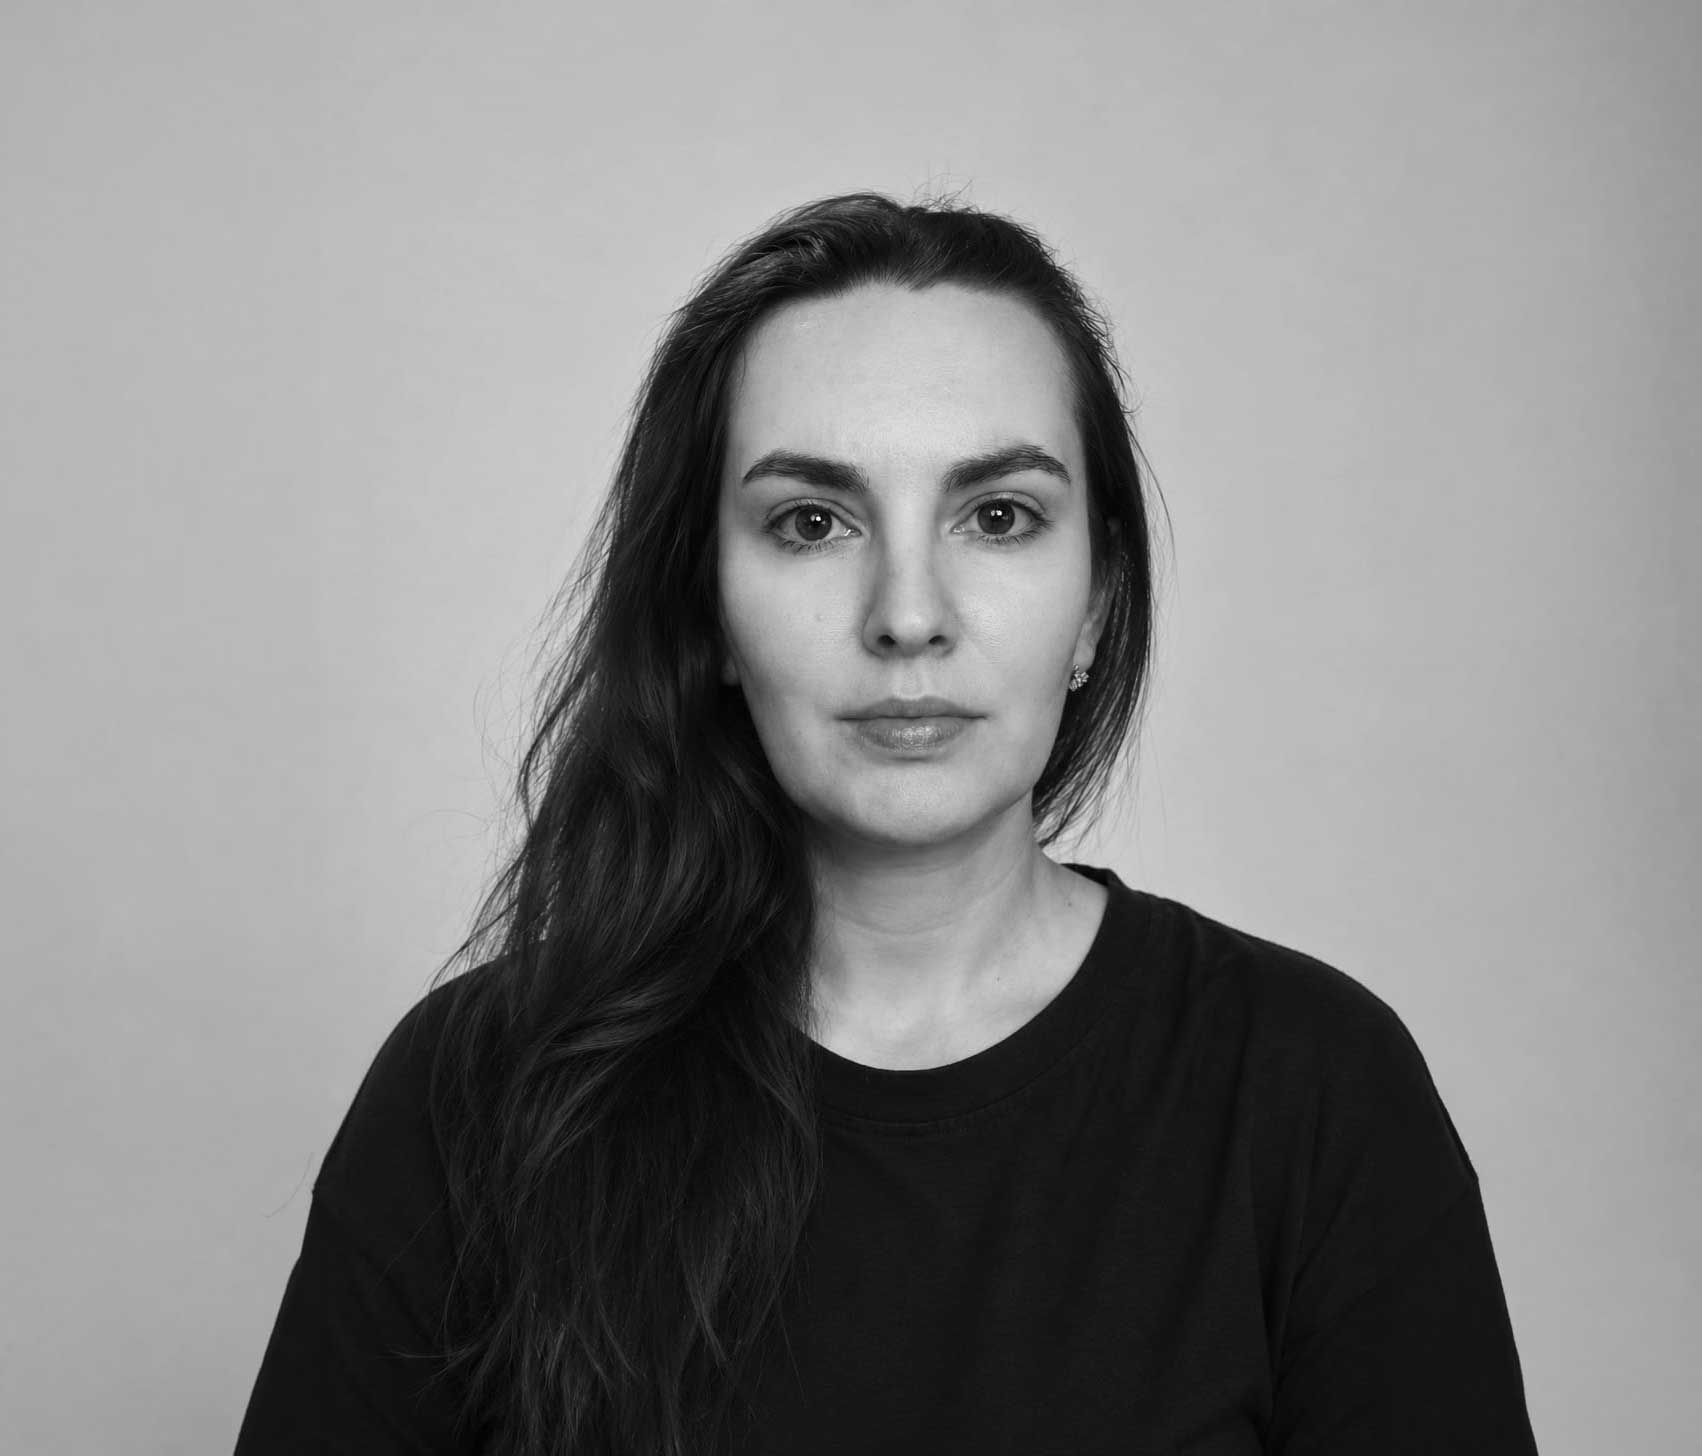
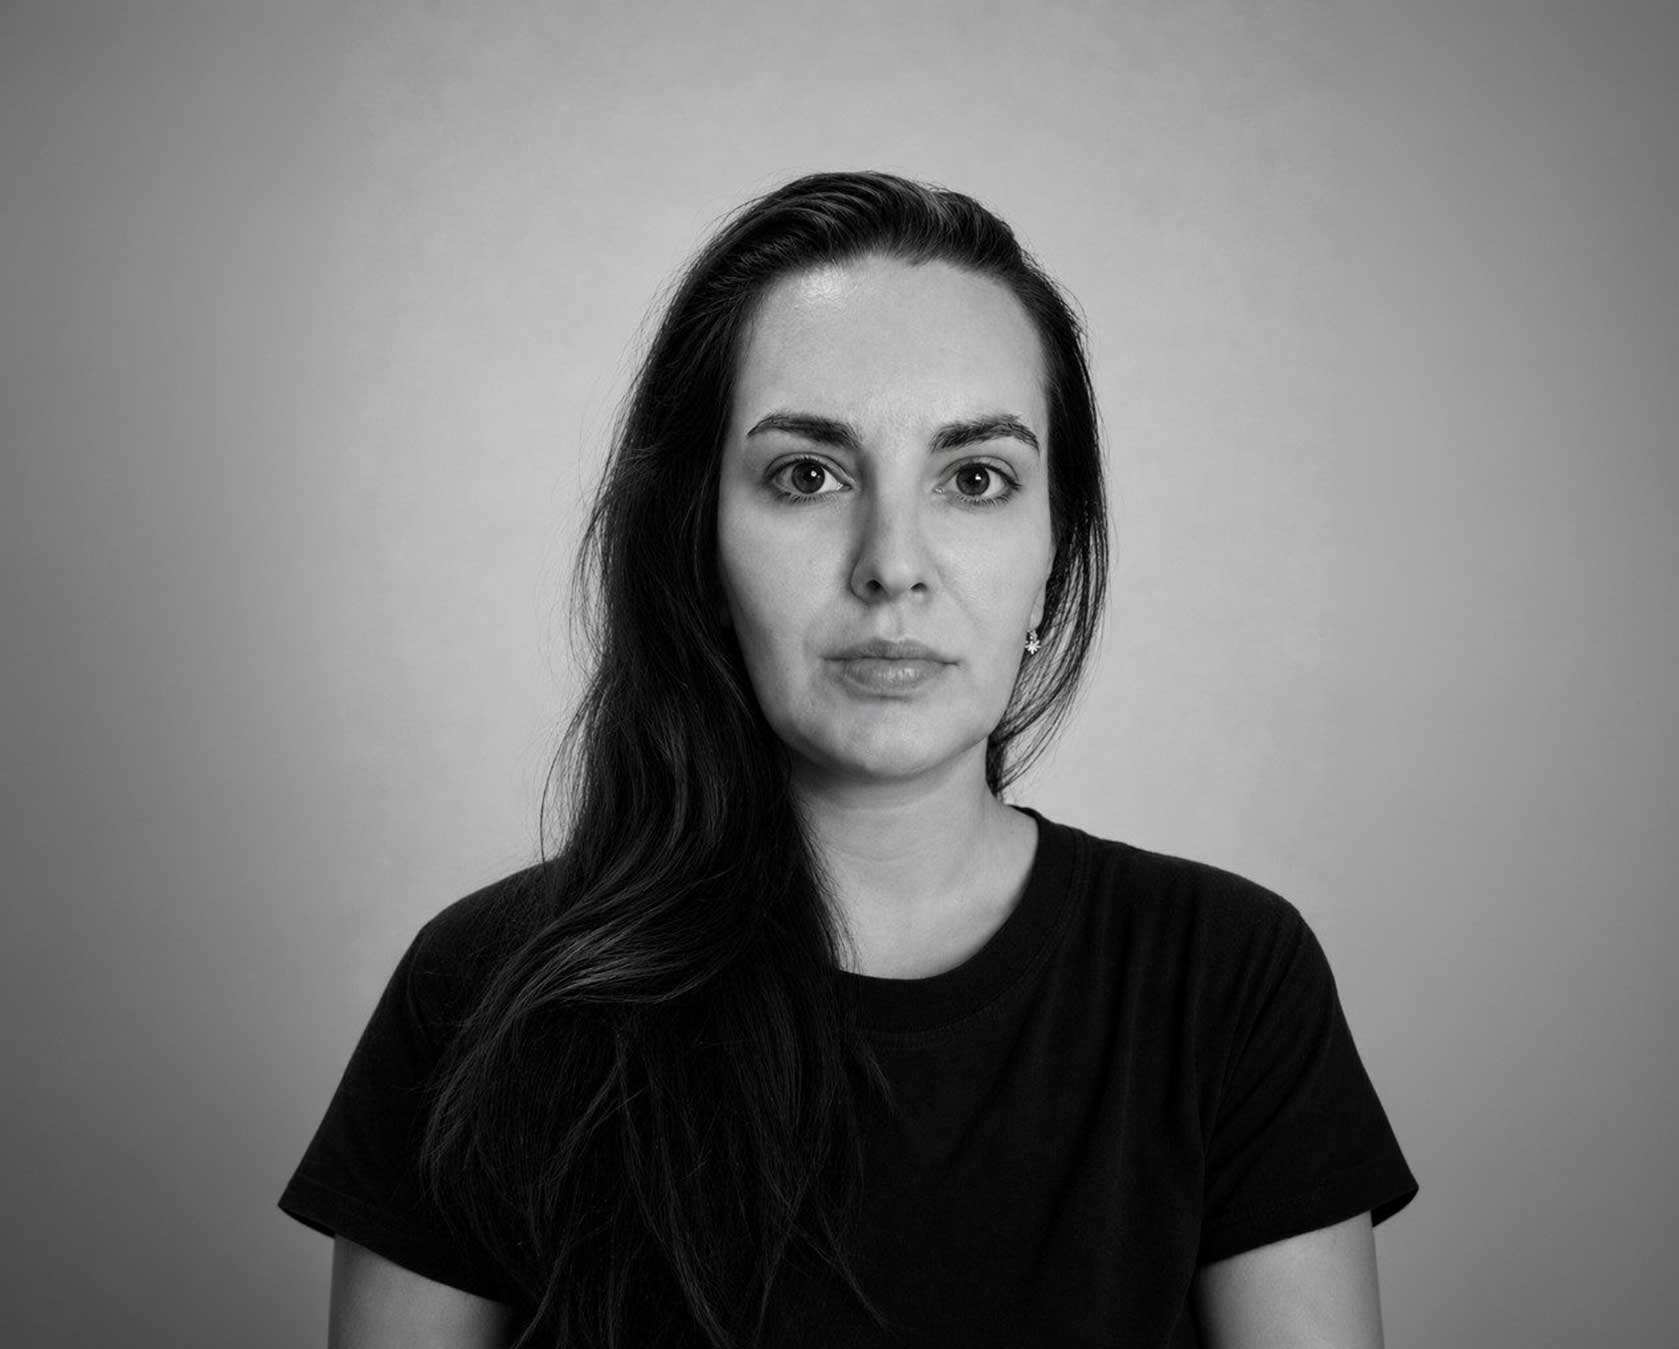
Refresh rentals imagery and polish trust overlay and layout.
Update Maria’s portrait, replace the On-Set Operations photo with a basecamp shot, show more of the Basecamp frame, center Technical & Power boxes on desktop, and lighten the homepage trust overlay.

diff --git a/assets/css/rentals.css b/assets/css/rentals.css
@@ -36,6 +36,19 @@
   border-bottom: none;
 }
 
+/* Basecamp: taller frame so more of the scene is visible */
+#basecamp .rnt-block__visual {
+  height: clamp(400px, 48vw, 580px);
+}
+
+#basecamp .rnt-placeholder__img {
+  object-position: center 42%;
+}
+
+#onset-ops .rnt-placeholder__img {
+  object-position: center 60%;
+}
+
 /* Header: number + title + desc */
 .rnt-block__header {
   display: grid;
@@ -122,6 +135,13 @@
 .rnt-block__visual .rnt-block__groups {
   width: 100%;
   grid-template-columns: repeat(3, minmax(0, 1fr));
+}
+
+/* Technical & Power has only two boxes — keep column size, center the pair */
+#technical-power .rnt-block__visual .rnt-block__groups {
+  grid-template-columns: repeat(2, minmax(0, 1fr));
+  width: min(100%, 66.666%);
+  margin-inline: auto;
 }
 
 .rnt-block__visual .rnt-group {
@@ -347,6 +367,10 @@
     overflow: visible;
   }
 
+  #basecamp .rnt-block__visual {
+    height: auto;
+  }
+
   .rnt-block__visual::after {
     display: none;
   }
@@ -355,6 +379,10 @@
     position: relative;
     height: clamp(200px, 46vw, 300px);
     margin-bottom: var(--sp-4);
+  }
+
+  #basecamp .rnt-block__visual-bg {
+    height: clamp(240px, 56vw, 360px);
   }
 
   .rnt-block__visual-bg:last-child {
@@ -373,6 +401,10 @@
   .rnt-block__groups {
     grid-template-columns: 1fr;
     gap: var(--sp-3);
+  }
+
+  #technical-power .rnt-block__visual .rnt-block__groups {
+    width: 100%;
   }
 
   .rnt-block__visual .rnt-group {

diff --git a/assets/css/boutique.css b/assets/css/boutique.css
@@ -754,13 +754,13 @@ html[lang="el"] .hero__title-line {
 }
 
 .trust__statement {
-  background: rgba(255, 255, 255, 0.42);
-  backdrop-filter: blur(20px);
-  -webkit-backdrop-filter: blur(20px);
+  background: rgba(255, 255, 255, 0.22);
+  backdrop-filter: blur(14px);
+  -webkit-backdrop-filter: blur(14px);
   color: var(--c-dark-text);
   padding: var(--sp-5) var(--sp-6);
-  border: 1px solid rgba(255, 255, 255, 0.28);
-  box-shadow: 0 24px 72px rgba(0, 0, 0, 0.12);
+  border: 1px solid rgba(255, 255, 255, 0.2);
+  box-shadow: 0 24px 72px rgba(0, 0, 0, 0.1);
   margin: 0;
   text-align: center;
 }

diff --git a/rentals.html b/rentals.html
@@ -191,7 +191,7 @@
 
       <div class="rnt-block__visual reveal">
         <div class="rnt-placeholder rnt-placeholder--photo rnt-block__visual-bg" aria-hidden="true">
-          <img src="assets/images/rentals/rental-onset.jpg" alt="On-set operations equipment" class="rnt-placeholder__img" loading="lazy" />
+          <img src="assets/images/rentals/rental-onset.jpg" alt="Production basecamp tents overlooking the sea" class="rnt-placeholder__img" loading="lazy" />
         </div>
         <div class="container rnt-block__visual-inner">
           <div class="rnt-block__groups">